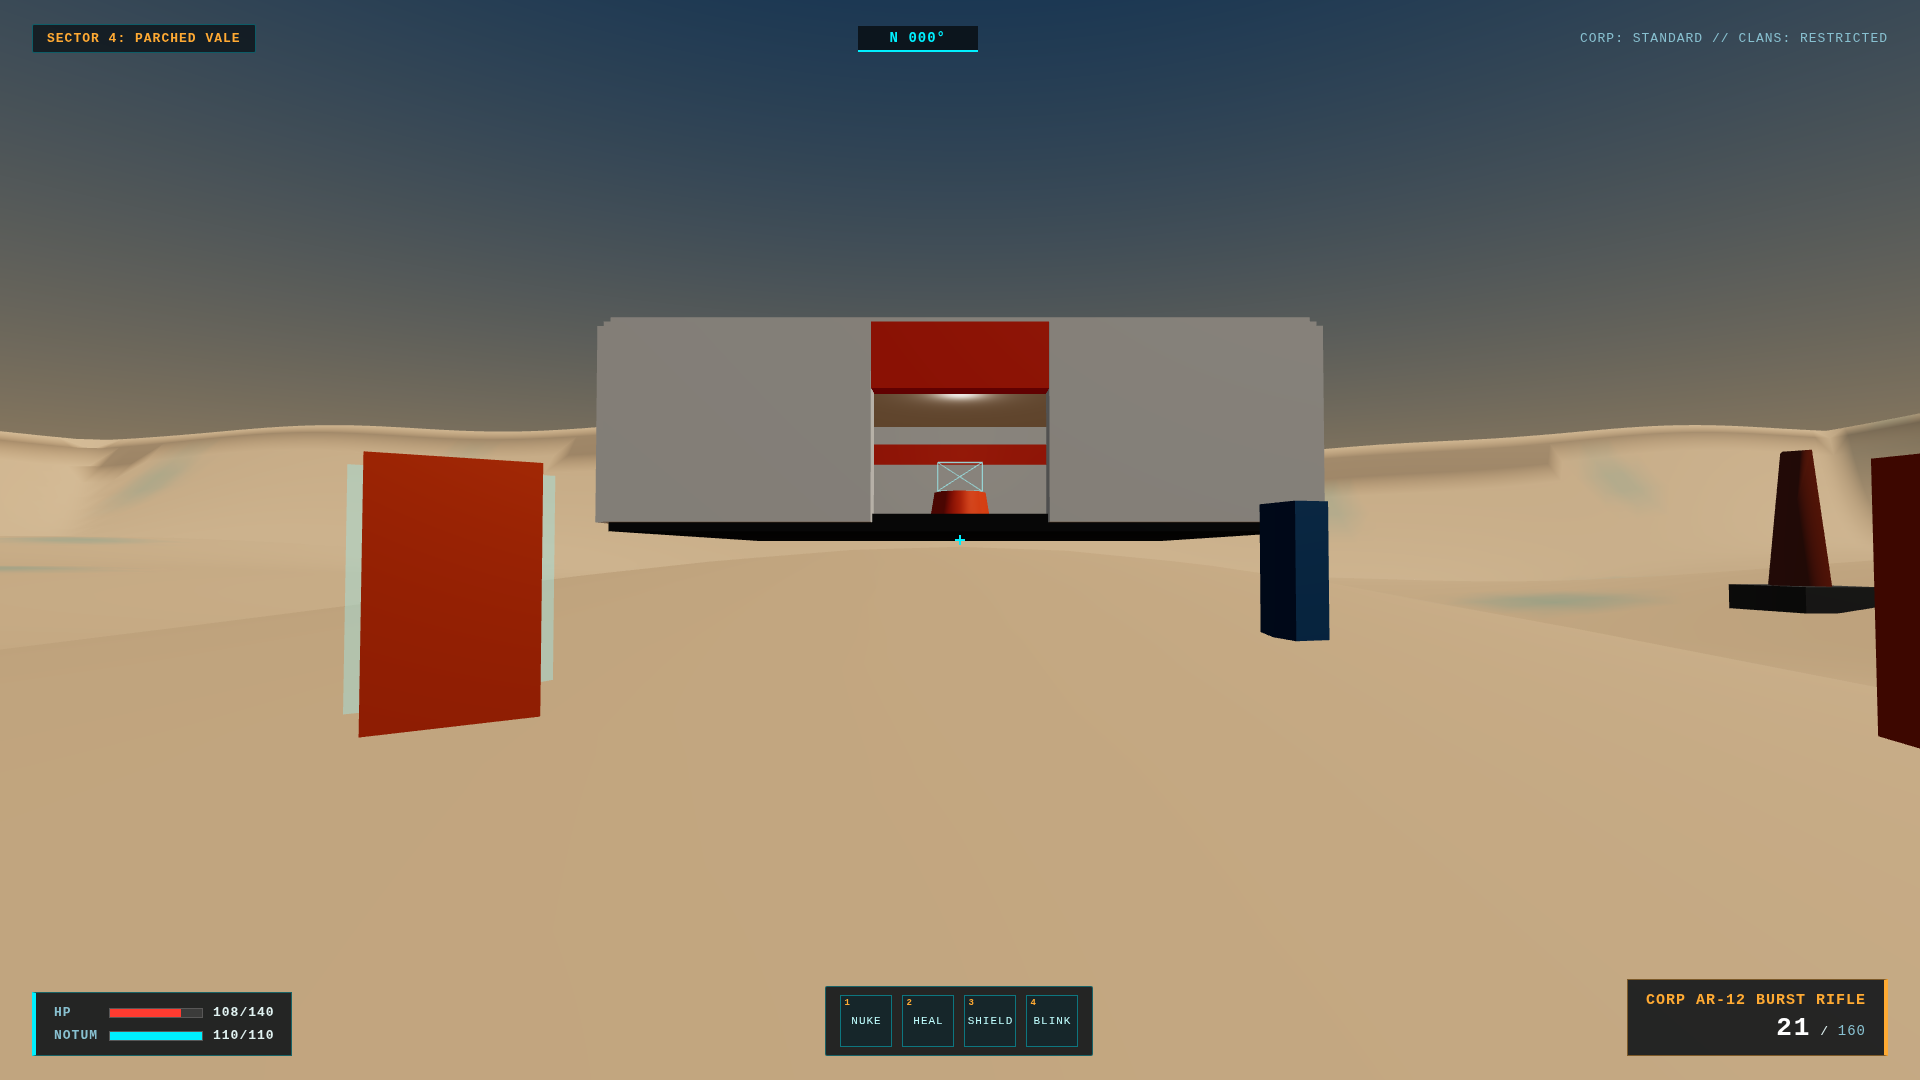
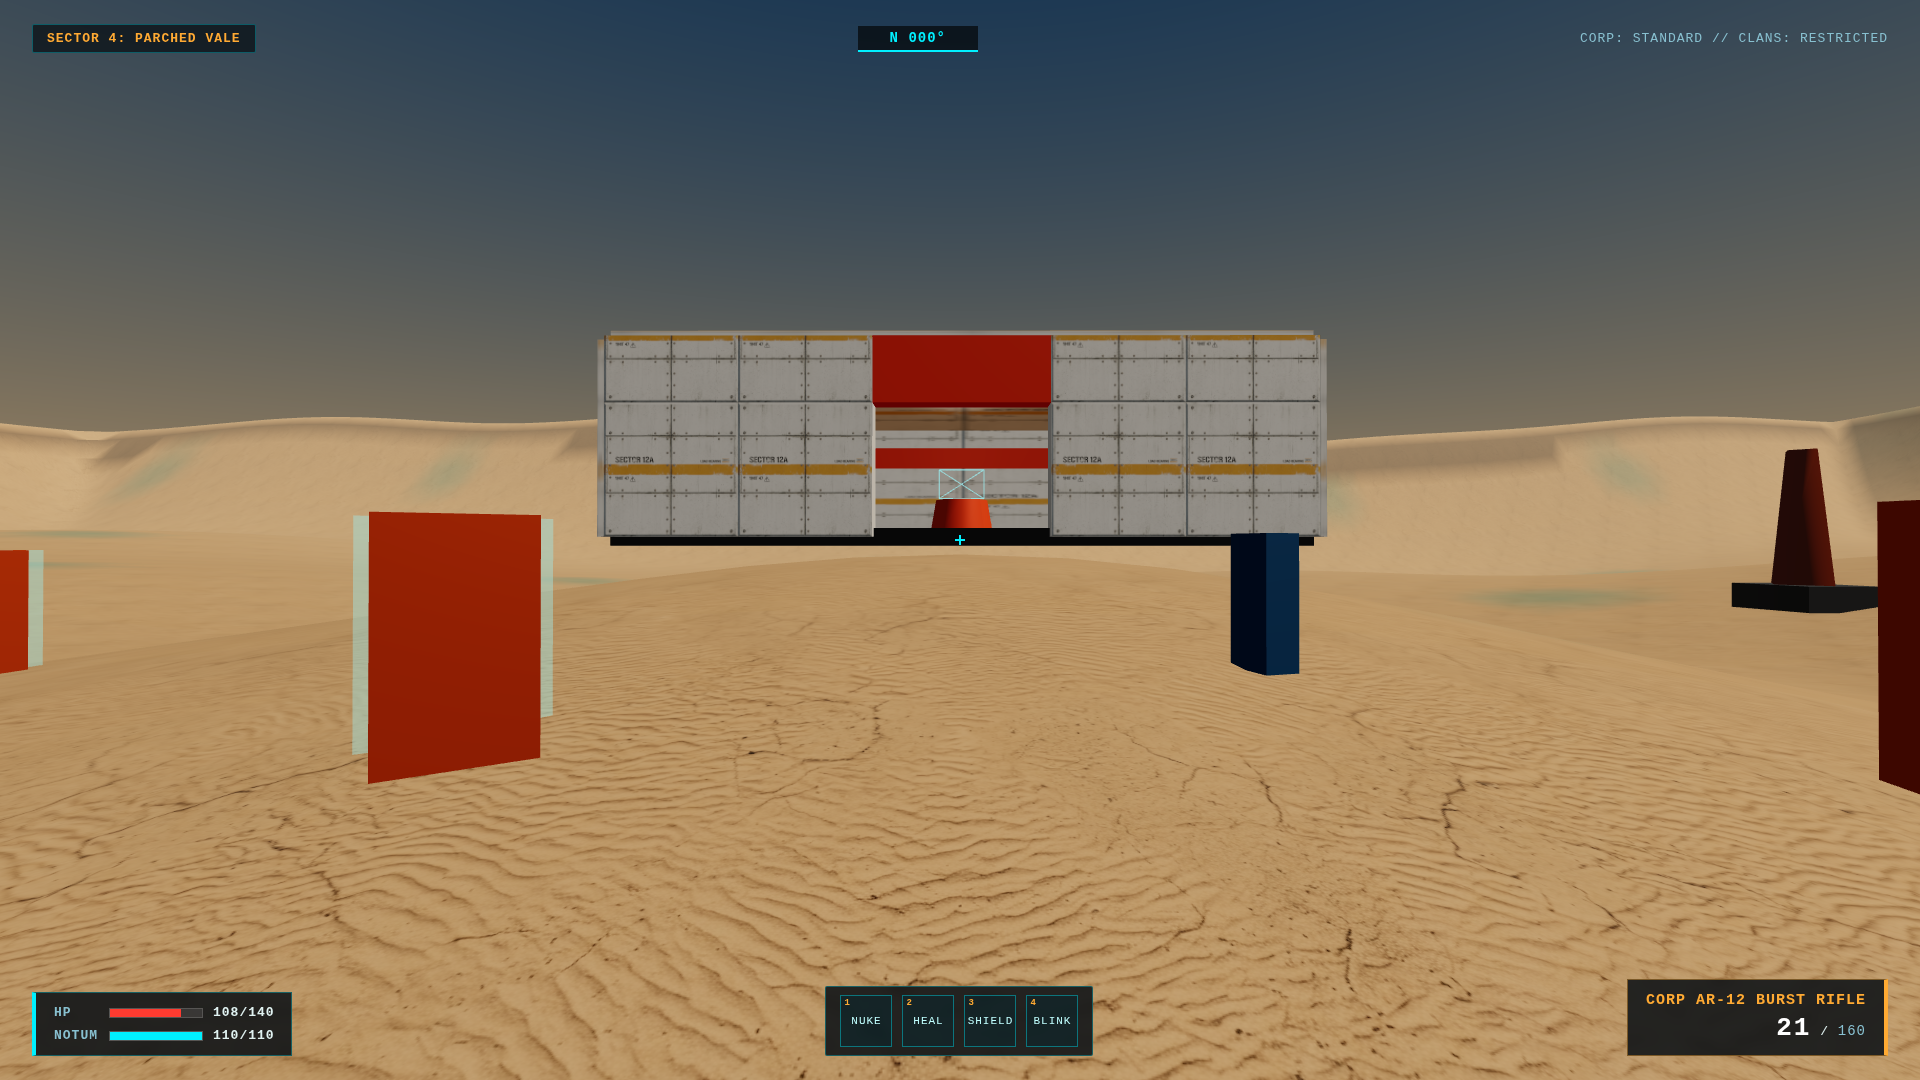
Integrate procedural textures generated via nano banana for terrain, outpost, clan metal, and notum vat

diff --git a/src/world/structures.ts b/src/world/structures.ts
@@ -23,7 +23,16 @@ export class WorldStructures {
     const cx = 0, cy = 3.2, cz = -60;
     outpost.position.set(cx, cy, cz);
 
-    const whiteMat = new THREE.MeshStandardMaterial({ color: 0xdedede, roughness: 0.8, metalness: 0.1 });
+    let concreteMap: THREE.Texture | null = null;
+    if (typeof window !== 'undefined' && typeof Image !== 'undefined') {
+      try {
+        concreteMap = new THREE.TextureLoader().load('/textures/concrete.jpg');
+        concreteMap.wrapS = THREE.RepeatWrapping;
+        concreteMap.wrapT = THREE.RepeatWrapping;
+        concreteMap.repeat.set(2, 1.5);
+      } catch (e) {}
+    }
+    const whiteMat = new THREE.MeshStandardMaterial({ map: concreteMap, color: 0xffffff, roughness: 0.8, metalness: 0.1 });
     const orangeMat = new THREE.MeshStandardMaterial({ color: 0xff5500, roughness: 0.5, metalness: 0.2 });
     const darkFloorMat = new THREE.MeshStandardMaterial({ color: 0x24282e, roughness: 0.9 });
     const holoMat = new THREE.MeshBasicMaterial({ color: 0x00f0ff, transparent: true, opacity: 0.6, wireframe: true });
@@ -115,7 +124,16 @@ export class WorldStructures {
     const cx = -80, cy = -2.0, cz = 70;
     encampment.position.set(cx, cy, cz);
 
-    const scrapMat = new THREE.MeshStandardMaterial({ color: 0x5a524b, roughness: 0.95, metalness: 0.6 });
+    let scrapMap: THREE.Texture | null = null;
+    if (typeof window !== 'undefined' && typeof Image !== 'undefined') {
+      try {
+        scrapMap = new THREE.TextureLoader().load('/textures/clan_metal.jpg');
+        scrapMap.wrapS = THREE.RepeatWrapping;
+        scrapMap.wrapT = THREE.RepeatWrapping;
+        scrapMap.repeat.set(3, 3);
+      } catch (e) {}
+    }
+    const scrapMat = new THREE.MeshStandardMaterial({ map: scrapMap, color: 0xffffff, roughness: 0.95, metalness: 0.6 });
     const rustMat = new THREE.MeshStandardMaterial({ color: 0x8a4524, roughness: 0.9, metalness: 0.4 });
     const tarpMat = new THREE.MeshStandardMaterial({ color: 0x9a8060, roughness: 1.0 });
 
@@ -189,13 +207,23 @@ export class WorldStructures {
     const cx = 85, cy = 1.8, cz = 45;
     facility.position.set(cx, cy, cz);
 
+    let notumMap: THREE.Texture | null = null;
+    if (typeof window !== 'undefined' && typeof Image !== 'undefined') {
+      try {
+        notumMap = new THREE.TextureLoader().load('/textures/notum.jpg');
+        notumMap.wrapS = THREE.RepeatWrapping;
+        notumMap.wrapT = THREE.RepeatWrapping;
+        notumMap.repeat.set(2, 1);
+      } catch (e) {}
+    }
     const industrialMat = new THREE.MeshStandardMaterial({ color: 0x363d44, roughness: 0.75, metalness: 0.7 });
     const vatGlassMat = new THREE.MeshStandardMaterial({
+      map: notumMap,
       color: 0x00e5ff,
-      roughness: 0.1,
-      metalness: 0.2,
+      roughness: 0.2,
+      metalness: 0.3,
       transparent: true,
-      opacity: 0.75
+      opacity: 0.85
     });
 
     // Main hall floor: 18m x 14m

diff --git a/src/world/terrain.ts b/src/world/terrain.ts
@@ -48,7 +48,21 @@ export class Terrain {
     geometry.setAttribute('color', new THREE.BufferAttribute(colors, 3));
     geometry.computeVertexNormals();
 
+    let sandMap: THREE.Texture | null = null;
+    if (typeof window !== 'undefined' && typeof Image !== 'undefined') {
+      try {
+        const loader = new THREE.TextureLoader();
+        sandMap = loader.load('/textures/sand.jpg');
+        sandMap.wrapS = THREE.RepeatWrapping;
+        sandMap.wrapT = THREE.RepeatWrapping;
+        sandMap.repeat.set(40, 40);
+      } catch (e) {
+        // Fallback to vertex colors
+      }
+    }
+
     const material = new THREE.MeshStandardMaterial({
+      map: sandMap,
       vertexColors: true,
       roughness: 0.88,
       metalness: 0.12,
